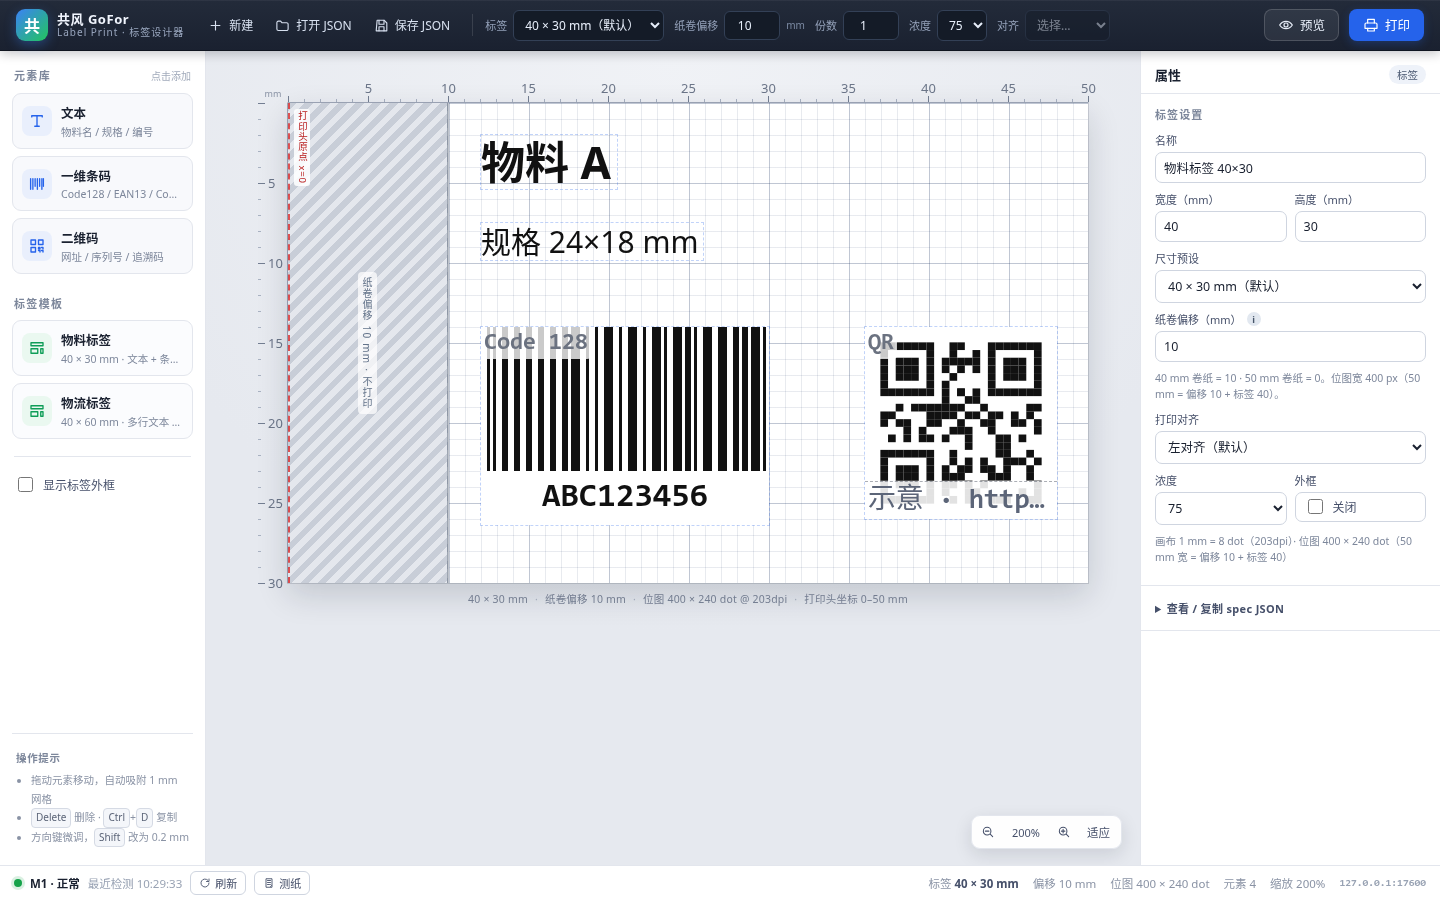
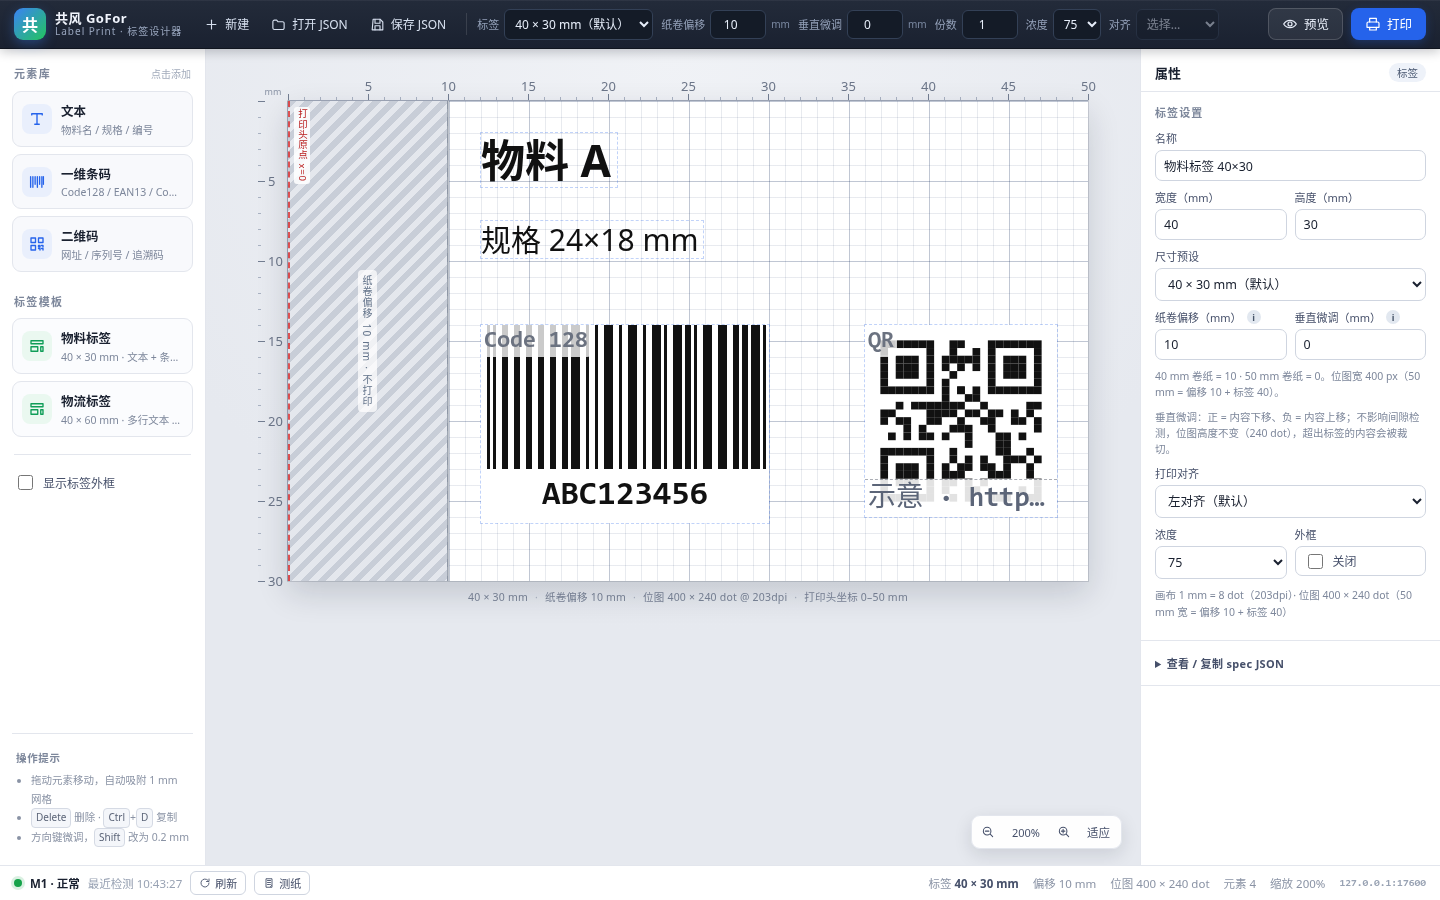
feat(ui): 垂直微调 offset_y_mm 控件与画布提示（工具栏/属性面板/告警），文档与截图更新

diff --git a/ui/src/components/AppToolbar.vue b/ui/src/components/AppToolbar.vue
@@ -176,20 +176,20 @@ function onOffsetYChange(event) {
       </select>
     </label>
 
-    <div class="toolbar-spacer"></div>
-
-    <button class="btn btn-ghost" title="调用后端生成 PNG 预览" @click="openPreview()">
-      <AppIcon name="preview" :size="16" />
-      <span>预览</span>
-    </button>
-    <button
-      class="btn btn-primary"
-      :disabled="state.printing"
-      title="调用后端打印（份数 = 上方数值）"
-      @click="printLabel()"
-    >
-      <AppIcon :name="state.printing ? 'refresh' : 'print'" :size="16" :class="{ spin: state.printing }" />
-      <span>{{ state.printing ? '打印中…' : '打印' }}</span>
-    </button>
+    <div class="toolbar-actions">
+      <button class="btn btn-ghost" title="调用后端生成 PNG 预览" @click="openPreview()">
+        <AppIcon name="preview" :size="16" />
+        <span>预览</span>
+      </button>
+      <button
+        class="btn btn-primary"
+        :disabled="state.printing"
+        title="调用后端打印（份数 = 上方数值）"
+        @click="printLabel()"
+      >
+        <AppIcon :name="state.printing ? 'refresh' : 'print'" :size="16" :class="{ spin: state.printing }" />
+        <span>{{ state.printing ? '打印中…' : '打印' }}</span>
+      </button>
+    </div>
   </header>
 </template>

diff --git a/ui/src/styles.css b/ui/src/styles.css
@@ -159,8 +159,8 @@ button {
   display: flex;
   align-items: center;
   flex-wrap: wrap;
-  gap: 8px 10px;
-  padding: 9px 16px;
+  gap: 7px 8px;
+  padding: 8px 14px;
   background: linear-gradient(180deg, var(--toolbar-from) 0%, var(--toolbar-to) 100%);
   color: #e8ecf4;
   border-bottom: 1px solid #10151f;
@@ -240,7 +240,7 @@ button {
 .toolbar-field {
   display: flex;
   align-items: center;
-  gap: 6px;
+  gap: 5px;
   font-size: 11px;
   color: #93a0b8;
   white-space: nowrap;
@@ -252,7 +252,7 @@ button {
   color: #e6edf9;
   border: 1px solid #334056;
   border-radius: 6px;
-  padding: 5px 7px;
+  padding: 5px 6px;
   font-size: 12px;
   outline: none;
   transition: border-color 0.15s ease, box-shadow 0.15s ease;
@@ -277,6 +277,12 @@ button {
 .toolbar-spacer {
   flex: 1 1 12px;
   min-width: 4px;
+}
+
+.toolbar-actions {
+  display: flex;
+  gap: 8px;
+  margin-left: auto;
 }
 
 /* ---------------------------------------------------------------- 工作区 */

diff --git a/server/gongfeng_print/printers/hprt_m1.py b/server/gongfeng_print/printers/hprt_m1.py
@@ -165,7 +165,8 @@ def _snap_align(align: Any) -> str:
 def build_stream(image: Image.Image, *, package_size: int = PACKAGE_SIZE,
                  density: int = 75, align: str = "left",
                  paper_type: int | None = 2,
-                 form_feed: bool = False) -> StreamInfo:
+                 form_feed: bool = False,
+                 vendor_flow: bool = False) -> StreamInfo:
     """把位图编码成一整套 ESC/POLI 指令流（含全部 GS v00 帧）。"""
     raw, wbytes, rows = image_to_raster(image)
     parts: list[bytes] = []
@@ -183,9 +184,14 @@ def build_stream(image: Image.Image, *, package_size: int = PACKAGE_SIZE,
             continue
         parts.append(frame(chunk[: chunk_rows * wbytes], wbytes, chunk_rows))
         frames += 1
-    parts.append(CMD_START_PRINT)
-    if form_feed:
+    # 厂商 App 的 ESC/POLI 流程是在位图后直接发 setPollForm(960)（GS f），
+    # 由固件完成"走到缝隙/回退对位/打印"；我们另有 1B 1B 01 5A 00 触发方式。
+    if vendor_flow:
         parts.append(CMD_FEED_960)
+    else:
+        parts.append(CMD_START_PRINT)
+        if form_feed:
+            parts.append(CMD_FEED_960)
     return StreamInfo(stream=b"".join(parts), row_bytes=wbytes, rows=rows,
                       frames=frames, package_size=int(package_size))
 
